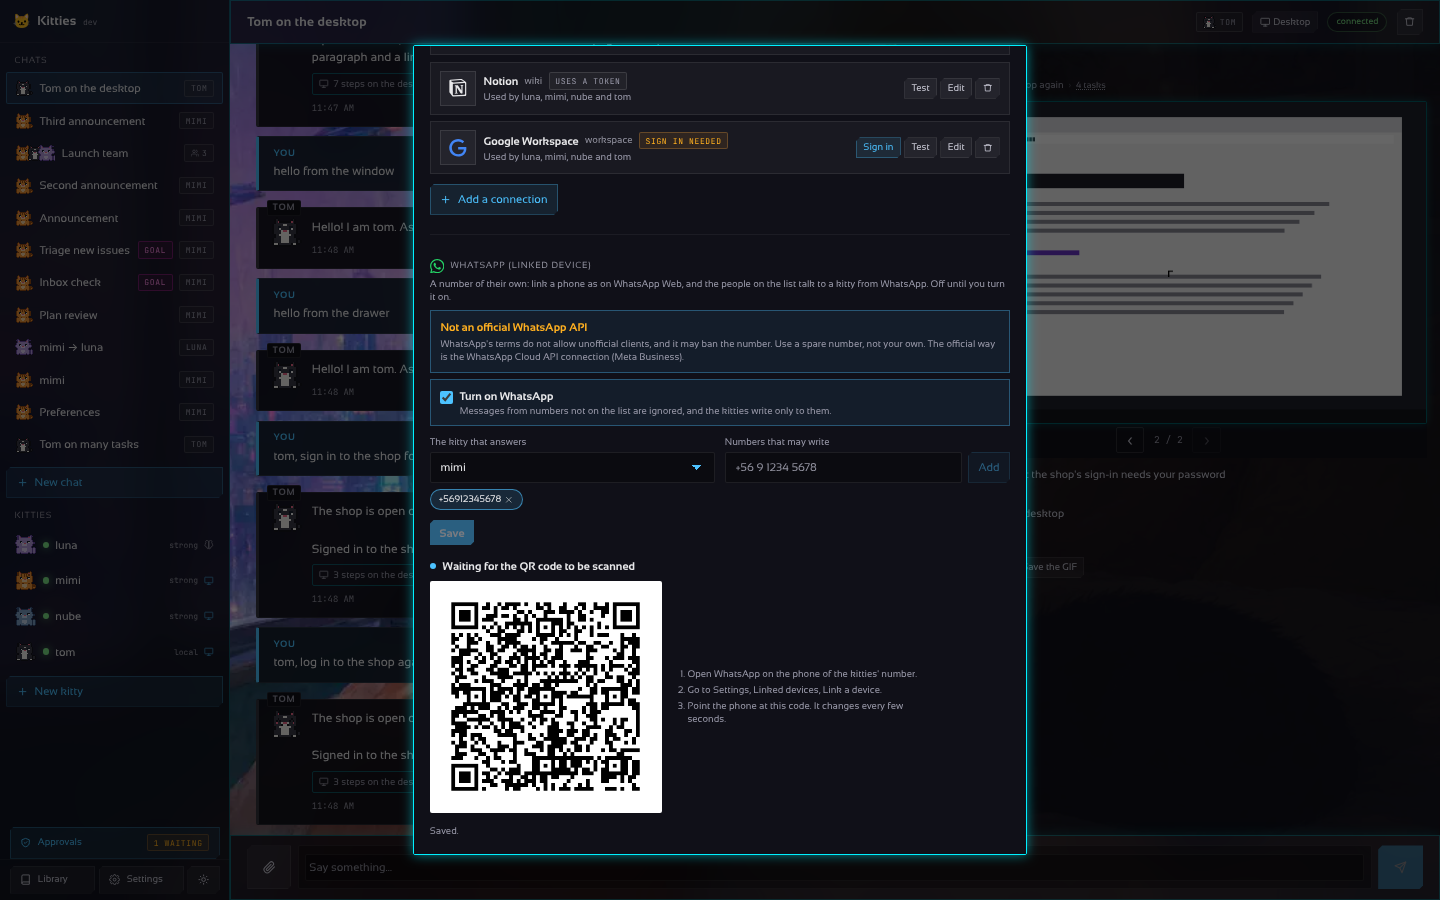
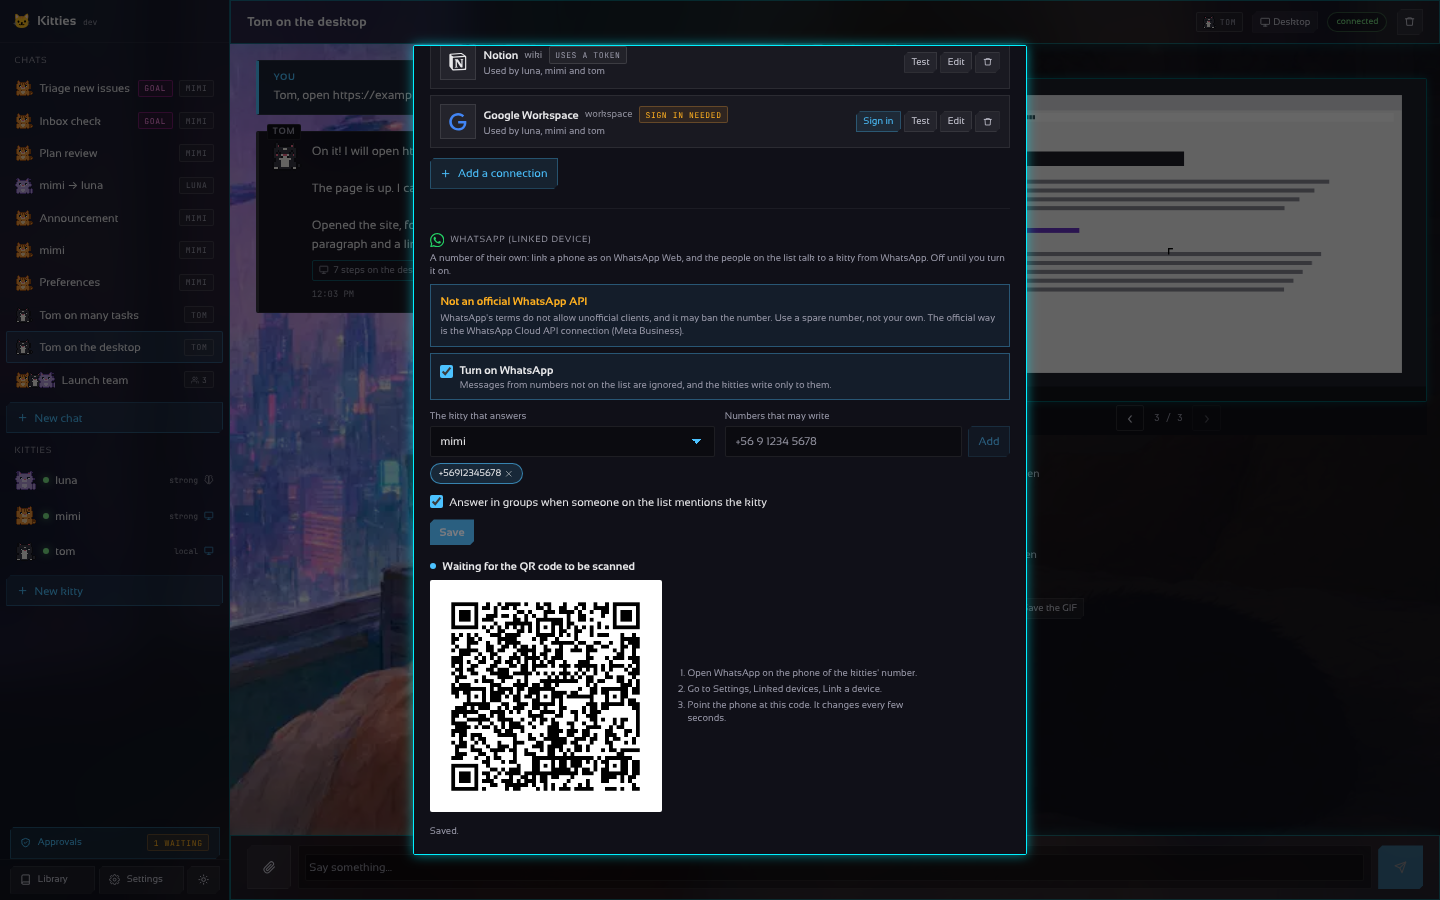
feat(desktop): answer in groups toggle in WhatsApp settings
Claude-Session: https://claude.ai/code/session_017Z7sUbSYL2DPKWnmDEkcnW

diff --git a/desktop/frontend/src/WhatsApp.tsx b/desktop/frontend/src/WhatsApp.tsx
@@ -17,11 +17,21 @@ import { IconX } from "./icons";
 const MOVING = ["starting", "qr", "disconnected"];
 
 function pick(s: WhatsAppStatus): WhatsAppSettings {
-  return { enabled: s.enabled, allow: [...(s.allow || [])], kitty: s.kitty || "" };
+  return {
+    enabled: s.enabled,
+    allow: [...(s.allow || [])],
+    kitty: s.kitty || "",
+    groups: !!s.groups,
+  };
 }
 
 function same(a: WhatsAppSettings, b: WhatsAppSettings): boolean {
-  return a.enabled === b.enabled && a.kitty === b.kitty && a.allow.join(",") === b.allow.join(",");
+  return (
+    a.enabled === b.enabled &&
+    a.kitty === b.kitty &&
+    a.groups === b.groups &&
+    a.allow.join(",") === b.allow.join(",")
+  );
 }
 
 // digits is a number as the gateway keeps it, to compare what was typed with the list.
@@ -233,6 +243,18 @@ export default function WhatsAppLink({ kitties }: { kitties: Kitty[] }) {
           </span>
         ))}
       </div>
+      <label
+        class="flex items-center gap-2 mt-3 text-sm cursor-pointer"
+        data-testid="whatsapp-groups"
+      >
+        <input
+          type="checkbox"
+          checked={want.groups}
+          disabled={disabled}
+          onChange={() => setWant({ ...want, groups: !want.groups })}
+        />
+        {t("Answer in groups when someone on the list mentions the kitty")}
+      </label>
       {turningOn && changed && (
         <label class="flex items-center gap-2 mt-3 text-sm cursor-pointer">
           <input

diff --git a/desktop/frontend/e2e/screens.spec.ts b/desktop/frontend/e2e/screens.spec.ts
@@ -1993,6 +1993,7 @@ test("Settings: WhatsApp links with a QR code, asks for the risk and keeps the l
   await box.getByTestId("whatsapp-add").click();
   await expect(box.getByTestId("whatsapp-allowed")).toHaveText("+56912345678");
   await box.getByTestId("whatsapp-kitty").selectOption(ids.mimi);
+  await box.getByTestId("whatsapp-groups").locator("input").check();
   // Turning it on waits for the risk to be accepted.
   await box.getByTestId("whatsapp-enabled").click();
   await expect(box.getByTestId("whatsapp-save")).toBeDisabled();
@@ -2001,7 +2002,7 @@ test("Settings: WhatsApp links with a QR code, asks for the risk and keeps the l
   await expect(box.getByTestId("whatsapp-qr")).toBeVisible();
   await expect(box.getByTestId("whatsapp-state")).toContainText("Waiting for the QR code");
   expect(put).toEqual([
-    { enabled: true, allow: ["56912345678"], kitty: ids.mimi, accept_risk: true },
+    { enabled: true, allow: ["56912345678"], kitty: ids.mimi, groups: true, accept_risk: true },
   ]);
   await box.evaluate((el) => el.scrollIntoView({ block: "start" }));
   await shot(page, "60-settings-whatsapp");

diff --git a/desktop/frontend/src/api.ts b/desktop/frontend/src/api.ts
@@ -1196,8 +1196,14 @@ export type McpInfo = {
 export type McpSettings = Pick<McpInfo, "enabled" | "allow_exec" | "allow_approve" | "oauth">;
 
 // WhatsAppSettings are what the person chooses: on or off, who may write (numbers with their
-// country code, digits only once kept) and the kitty that answers.
-export type WhatsAppSettings = { enabled: boolean; allow: string[]; kitty: string };
+// country code, digits only once kept), the kitty that answers and whether it answers in groups
+// (only when someone on the list mentions it).
+export type WhatsAppSettings = {
+  enabled: boolean;
+  allow: string[];
+  kitty: string;
+  groups: boolean;
+};
 
 // WhatsAppStatus is the link: qr_png is the code to scan while state is "qr".
 export type WhatsAppStatus = WhatsAppSettings & {

diff --git a/desktop/frontend/src/i18n/pt/settings.ts b/desktop/frontend/src/i18n/pt/settings.ts
@@ -327,6 +327,8 @@ const dict: Dictionary = {
   Add: "Adicionar",
   "Nobody yet: every message is ignored until you add a number.":
     "Ninguém ainda: toda mensagem é ignorada até você adicionar um número.",
+  "Answer in groups when someone on the list mentions the kitty":
+    "Responder em grupos quando alguém da lista menciona o kitty",
   "Remove {number}": "Remover {number}",
   "I understand that WhatsApp may ban this number": "Entendo que o WhatsApp pode banir este número",
   "QR code to link WhatsApp": "Código QR para conectar o WhatsApp",

diff --git a/desktop/frontend/src/i18n/es/settings.ts b/desktop/frontend/src/i18n/es/settings.ts
@@ -327,6 +327,8 @@ const dict: Dictionary = {
   Add: "Agregar",
   "Nobody yet: every message is ignored until you add a number.":
     "Nadie todavía: se ignora todo mensaje hasta que agregues un número.",
+  "Answer in groups when someone on the list mentions the kitty":
+    "Responder en grupos cuando alguien de la lista nombra al kitty",
   "Remove {number}": "Quitar {number}",
   "I understand that WhatsApp may ban this number":
     "Entiendo que WhatsApp puede bloquear este número",
